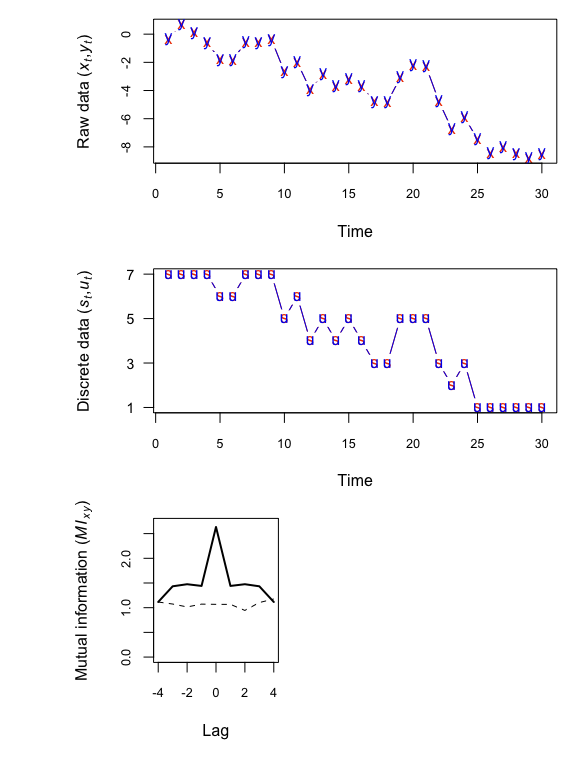
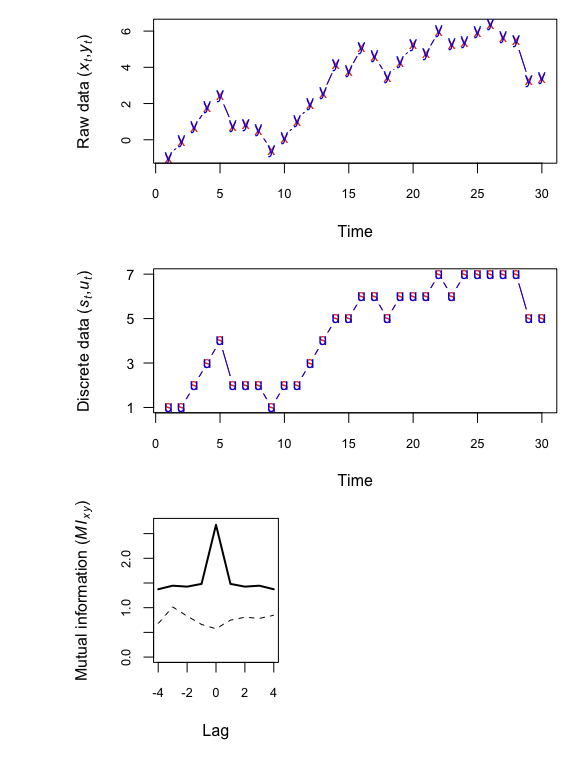
fixed readme examples & descriptions

diff --git a/README.md b/README.md
@@ -50,9 +50,9 @@ Here's an example with significant correlation between two numeric vectors. Noti
 ``` r
 set.seed(123)
 TT <- 30
-x <- rnorm(TT)
-y <- x + rnorm(TT)
-muti(x,y)
+x1 <- rnorm(TT)
+y1 <- x1 + rnorm(TT)
+muti(x1,y1)
 ```
 
 ![](README_files/figure-markdown_github/ex_1-1.png)
@@ -75,82 +75,82 @@ Here's an example with significant correlation between two integer vectors.
 ``` r
 x2 <- rpois(TT,4)
 y2 <- x2 + sample(c(-1,1),TT,replace=TRUE)
-muti(x,y)
+muti(x2,y2)
 ```
 
 ![](README_files/figure-markdown_github/ex_2-1.png)
 
     ##       lag     MI_xy     MI_tv
-    ##  [1,]  -4 0.3122401 0.6140055
-    ##  [2,]  -3 0.5477111 0.5114544
-    ##  [3,]  -2 0.4896244 0.6018144
-    ##  [4,]  -1 0.6133082 0.5067642
-    ##  [5,]   0 0.7759290 0.5208218
-    ##  [6,]   1 0.4590565 0.5890482
-    ##  [7,]   2 0.1663024 0.5583886
-    ##  [8,]   3 0.2815102 0.5220552
-    ##  [9,]   4 0.4795740 0.5085026
+    ##  [1,]  -4 0.9622210 0.8510187
+    ##  [2,]  -3 0.5323156 0.7538786
+    ##  [3,]  -2 0.4511814 0.7758370
+    ##  [4,]  -1 0.7775874 0.7009295
+    ##  [5,]   0 0.9852553 0.6586393
+    ##  [6,]   1 0.9450356 0.7456378
+    ##  [7,]   2 0.5661902 0.8078943
+    ##  [8,]   3 0.6119224 0.8451717
+    ##  [9,]   4 0.7026058 0.8197471
 
 ### Ex 3: Real values as symbolic with normalized MI
 
 Same as Ex 1 with MI normalized to \[0,1\]. In this case MI'(*X*,*Y*) = MI(*X*,*Y*)/sqrt(*H*(*X*)\**H*(*Y*)).
 
 ``` r
-muti(x,y,normal=TRUE)
+muti(x1,y1,normal=TRUE)
 ```
 
 ![](README_files/figure-markdown_github/ex_3-1.png)
 
     ##       lag      MI_xy     MI_tv
-    ##  [1,]  -4 0.16712589 0.3708226
-    ##  [2,]  -3 0.28904789 0.3110627
-    ##  [3,]  -2 0.26046030 0.3079110
+    ##  [1,]  -4 0.16712589 0.3677492
+    ##  [2,]  -3 0.28904789 0.3135484
+    ##  [3,]  -2 0.26046030 0.3267956
     ##  [4,]  -1 0.32544694 0.3009047
-    ##  [5,]   0 0.41446439 0.2560790
-    ##  [6,]   1 0.24575105 0.3055651
-    ##  [7,]   2 0.08846611 0.3158044
-    ##  [8,]   3 0.14856359 0.3202974
-    ##  [9,]   4 0.25457125 0.3779873
+    ##  [5,]   0 0.41446439 0.2896681
+    ##  [6,]   1 0.24575105 0.3207486
+    ##  [7,]   2 0.08846611 0.3305198
+    ##  [8,]   3 0.14856359 0.3199256
+    ##  [9,]   4 0.25457125 0.3376727
 
 ### Ex 4: Real values with binning
 
 Same as Ex 1 with regular binning instead of symbolic.
 
 ``` r
-muti(x,y,sym=FALSE)
+muti(x1,y1,sym=FALSE)
 ```
 
 ![](README_files/figure-markdown_github/ex_4-1.png)
 
-    ##       lag     MI_xy    MI_tv
-    ##  [1,]  -4 0.8820883 1.055511
-    ##  [2,]  -3 0.8889416 1.041745
-    ##  [3,]  -2 1.1275134 1.018997
-    ##  [4,]  -1 0.8990155 1.010916
-    ##  [5,]   0 1.0098951 1.033755
-    ##  [6,]   1 0.7625273 1.050959
-    ##  [7,]   2 1.0095443 1.006130
-    ##  [8,]   3 0.8754405 1.099812
-    ##  [9,]   4 0.9009431 1.178713
+    ##       lag     MI_xy     MI_tv
+    ##  [1,]  -4 0.8820883 1.0915053
+    ##  [2,]  -3 0.8889416 1.0400937
+    ##  [3,]  -2 1.1275134 1.0351082
+    ##  [4,]  -1 0.8990155 1.0109159
+    ##  [5,]   0 1.0098951 1.0146187
+    ##  [6,]   1 0.7625273 0.9982514
+    ##  [7,]   2 1.0095443 0.9650760
+    ##  [8,]   3 0.8754405 1.0241878
+    ##  [9,]   4 0.9009431 1.1495736
 
 ### Ex 5: Autocorrelation
 
 Here's an example of examining the MI of a single time series at multiple time lags.
 
 ``` r
-x <- cumsum(rnorm(TT))
-muti(x,x,sym=FALSE)
+x3 <- cumsum(rnorm(TT))
+muti(x3,x3,sym=FALSE)
 ```
 
 ![](README_files/figure-markdown_github/ex_5-1.png)
 
     ##       lag    MI_xy     MI_tv
-    ##  [1,]  -4 1.115811 1.1148577
-    ##  [2,]  -3 1.433014 1.0737790
-    ##  [3,]  -2 1.475204 1.0152812
-    ##  [4,]  -1 1.440723 1.0719487
-    ##  [5,]   0 2.634197 1.0677397
-    ##  [6,]   1 1.440723 1.0666590
-    ##  [7,]   2 1.475204 0.9446771
-    ##  [8,]   3 1.433014 1.1042051
-    ##  [9,]   4 1.115811 1.1753826
+    ##  [1,]  -4 1.373382 0.6785124
+    ##  [2,]  -3 1.445323 1.0154965
+    ##  [3,]  -2 1.426345 0.8297028
+    ##  [4,]  -1 1.481657 0.6605550
+    ##  [5,]   0 2.677095 0.5731660
+    ##  [6,]   1 1.481657 0.7478677
+    ##  [7,]   2 1.426345 0.8063092
+    ##  [8,]   3 1.445323 0.7827691
+    ##  [9,]   4 1.373382 0.8463104
